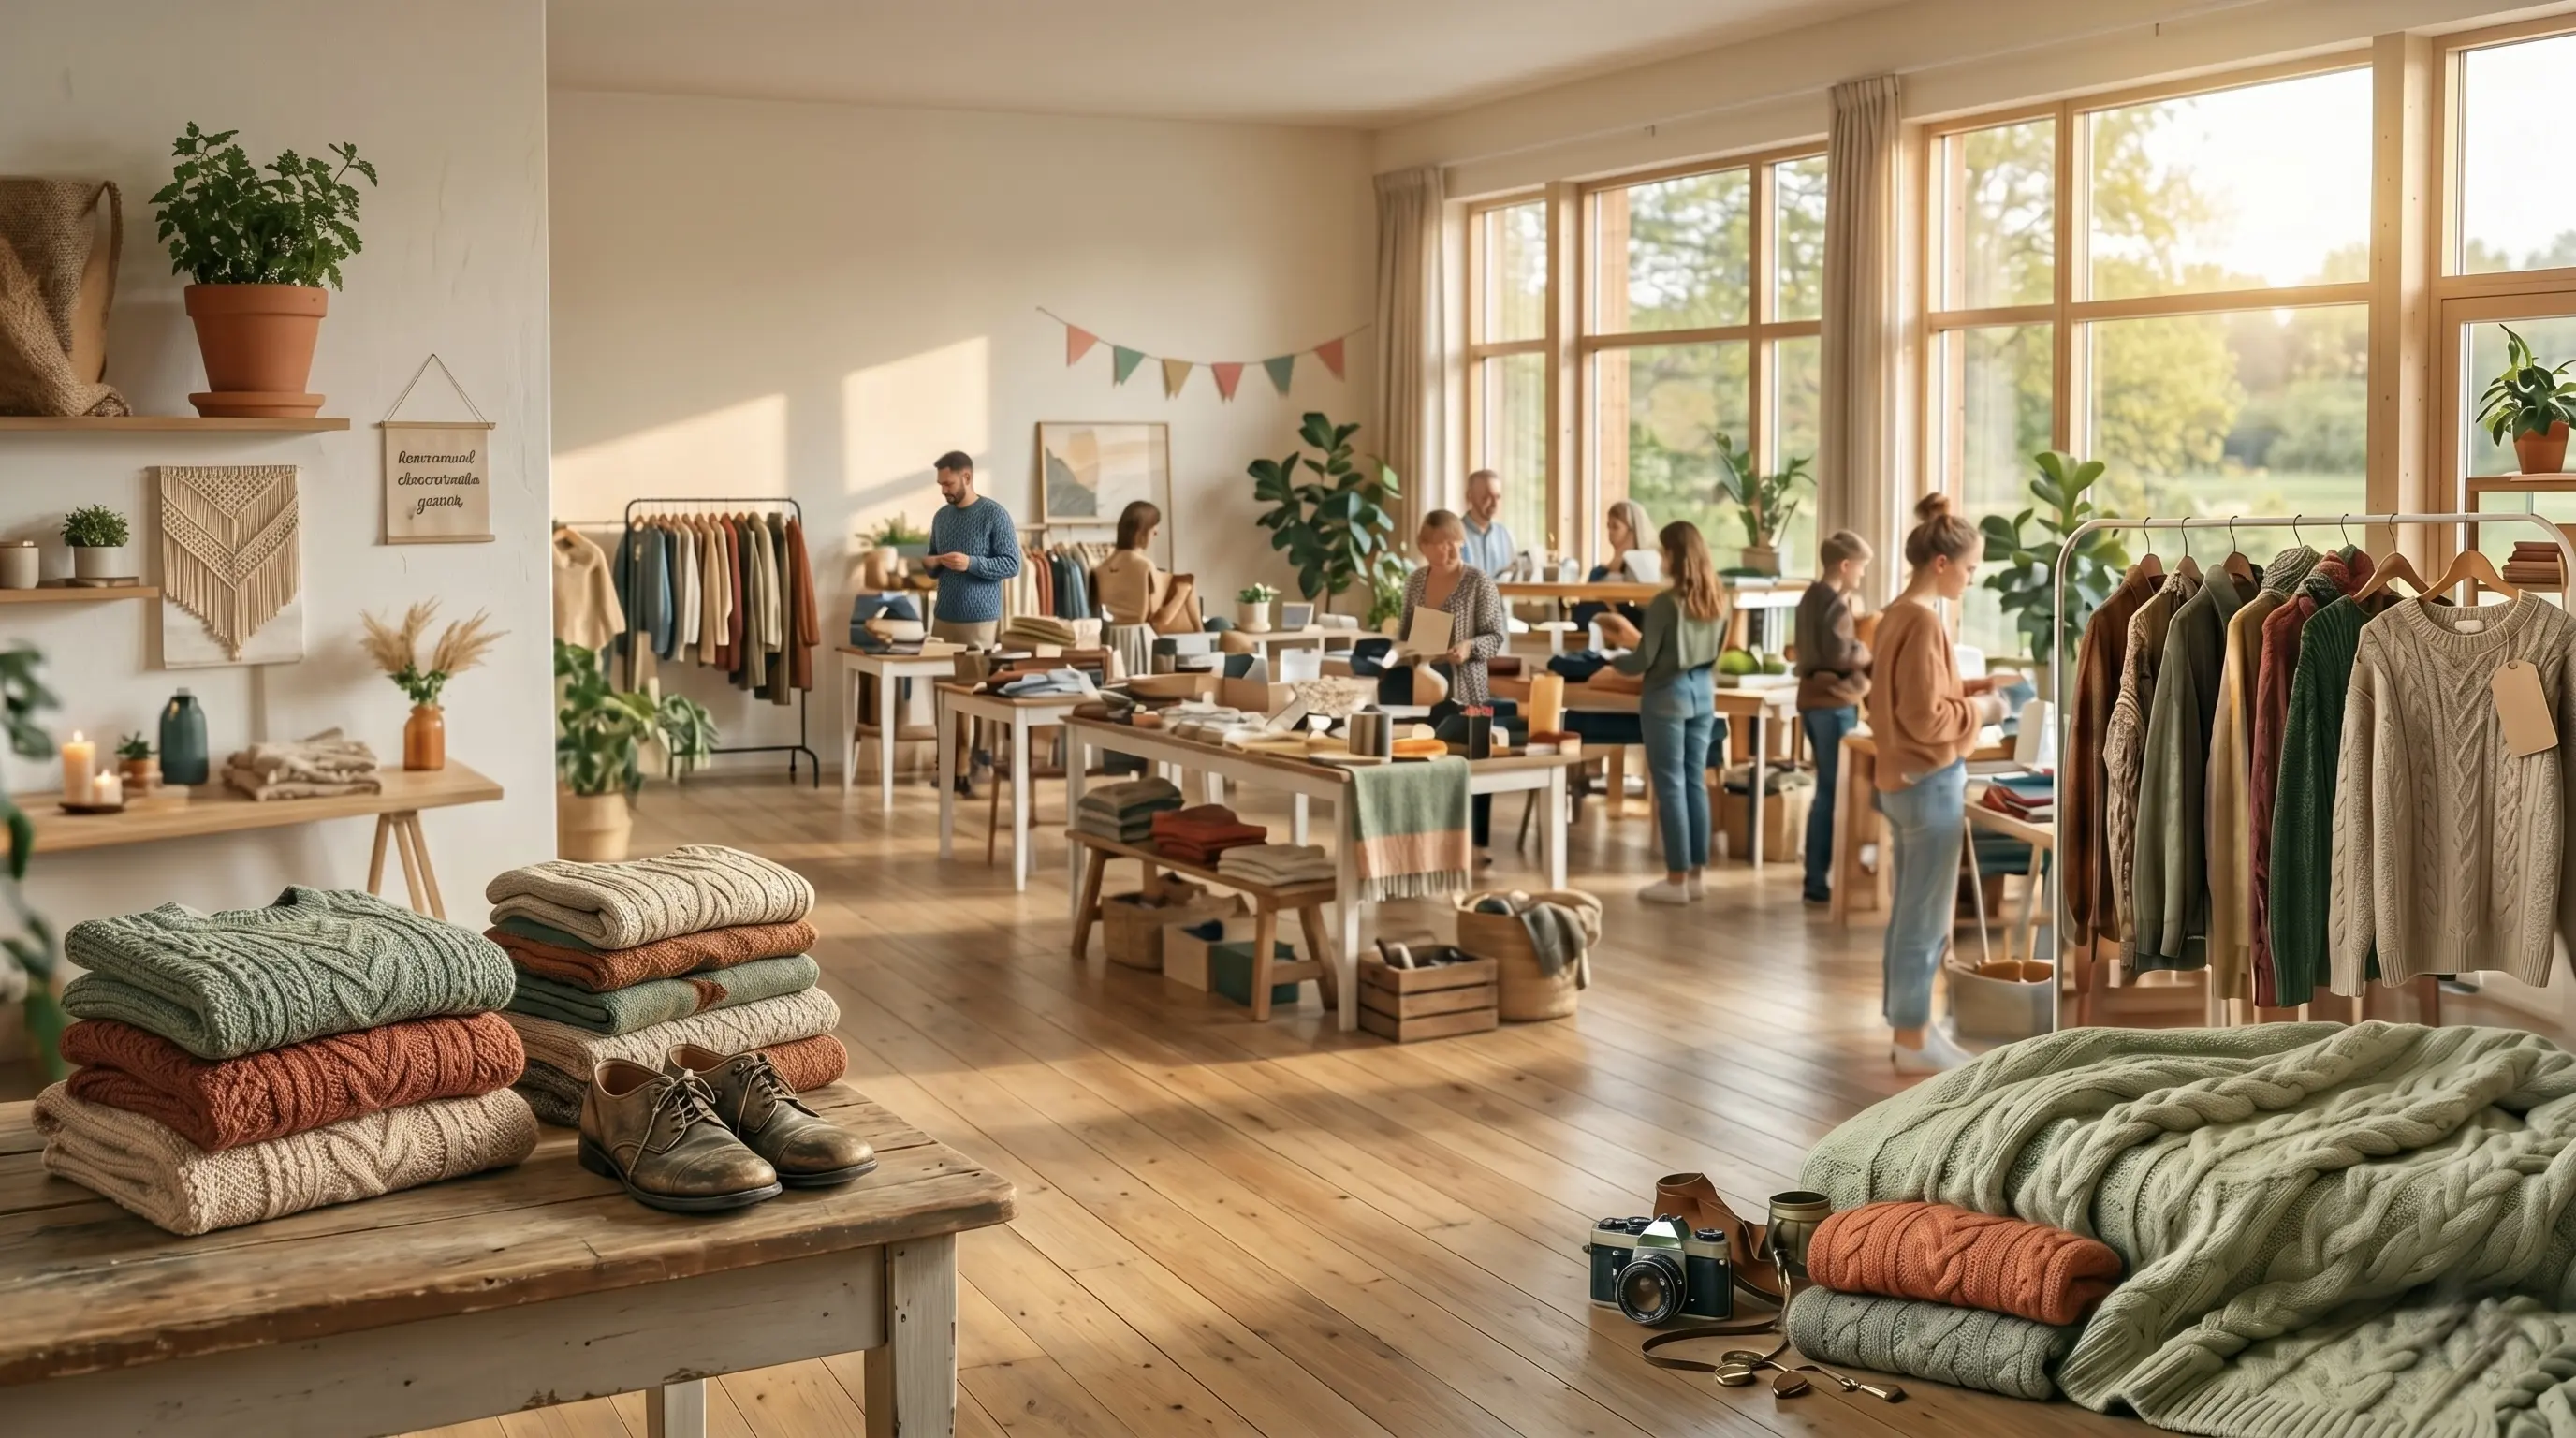
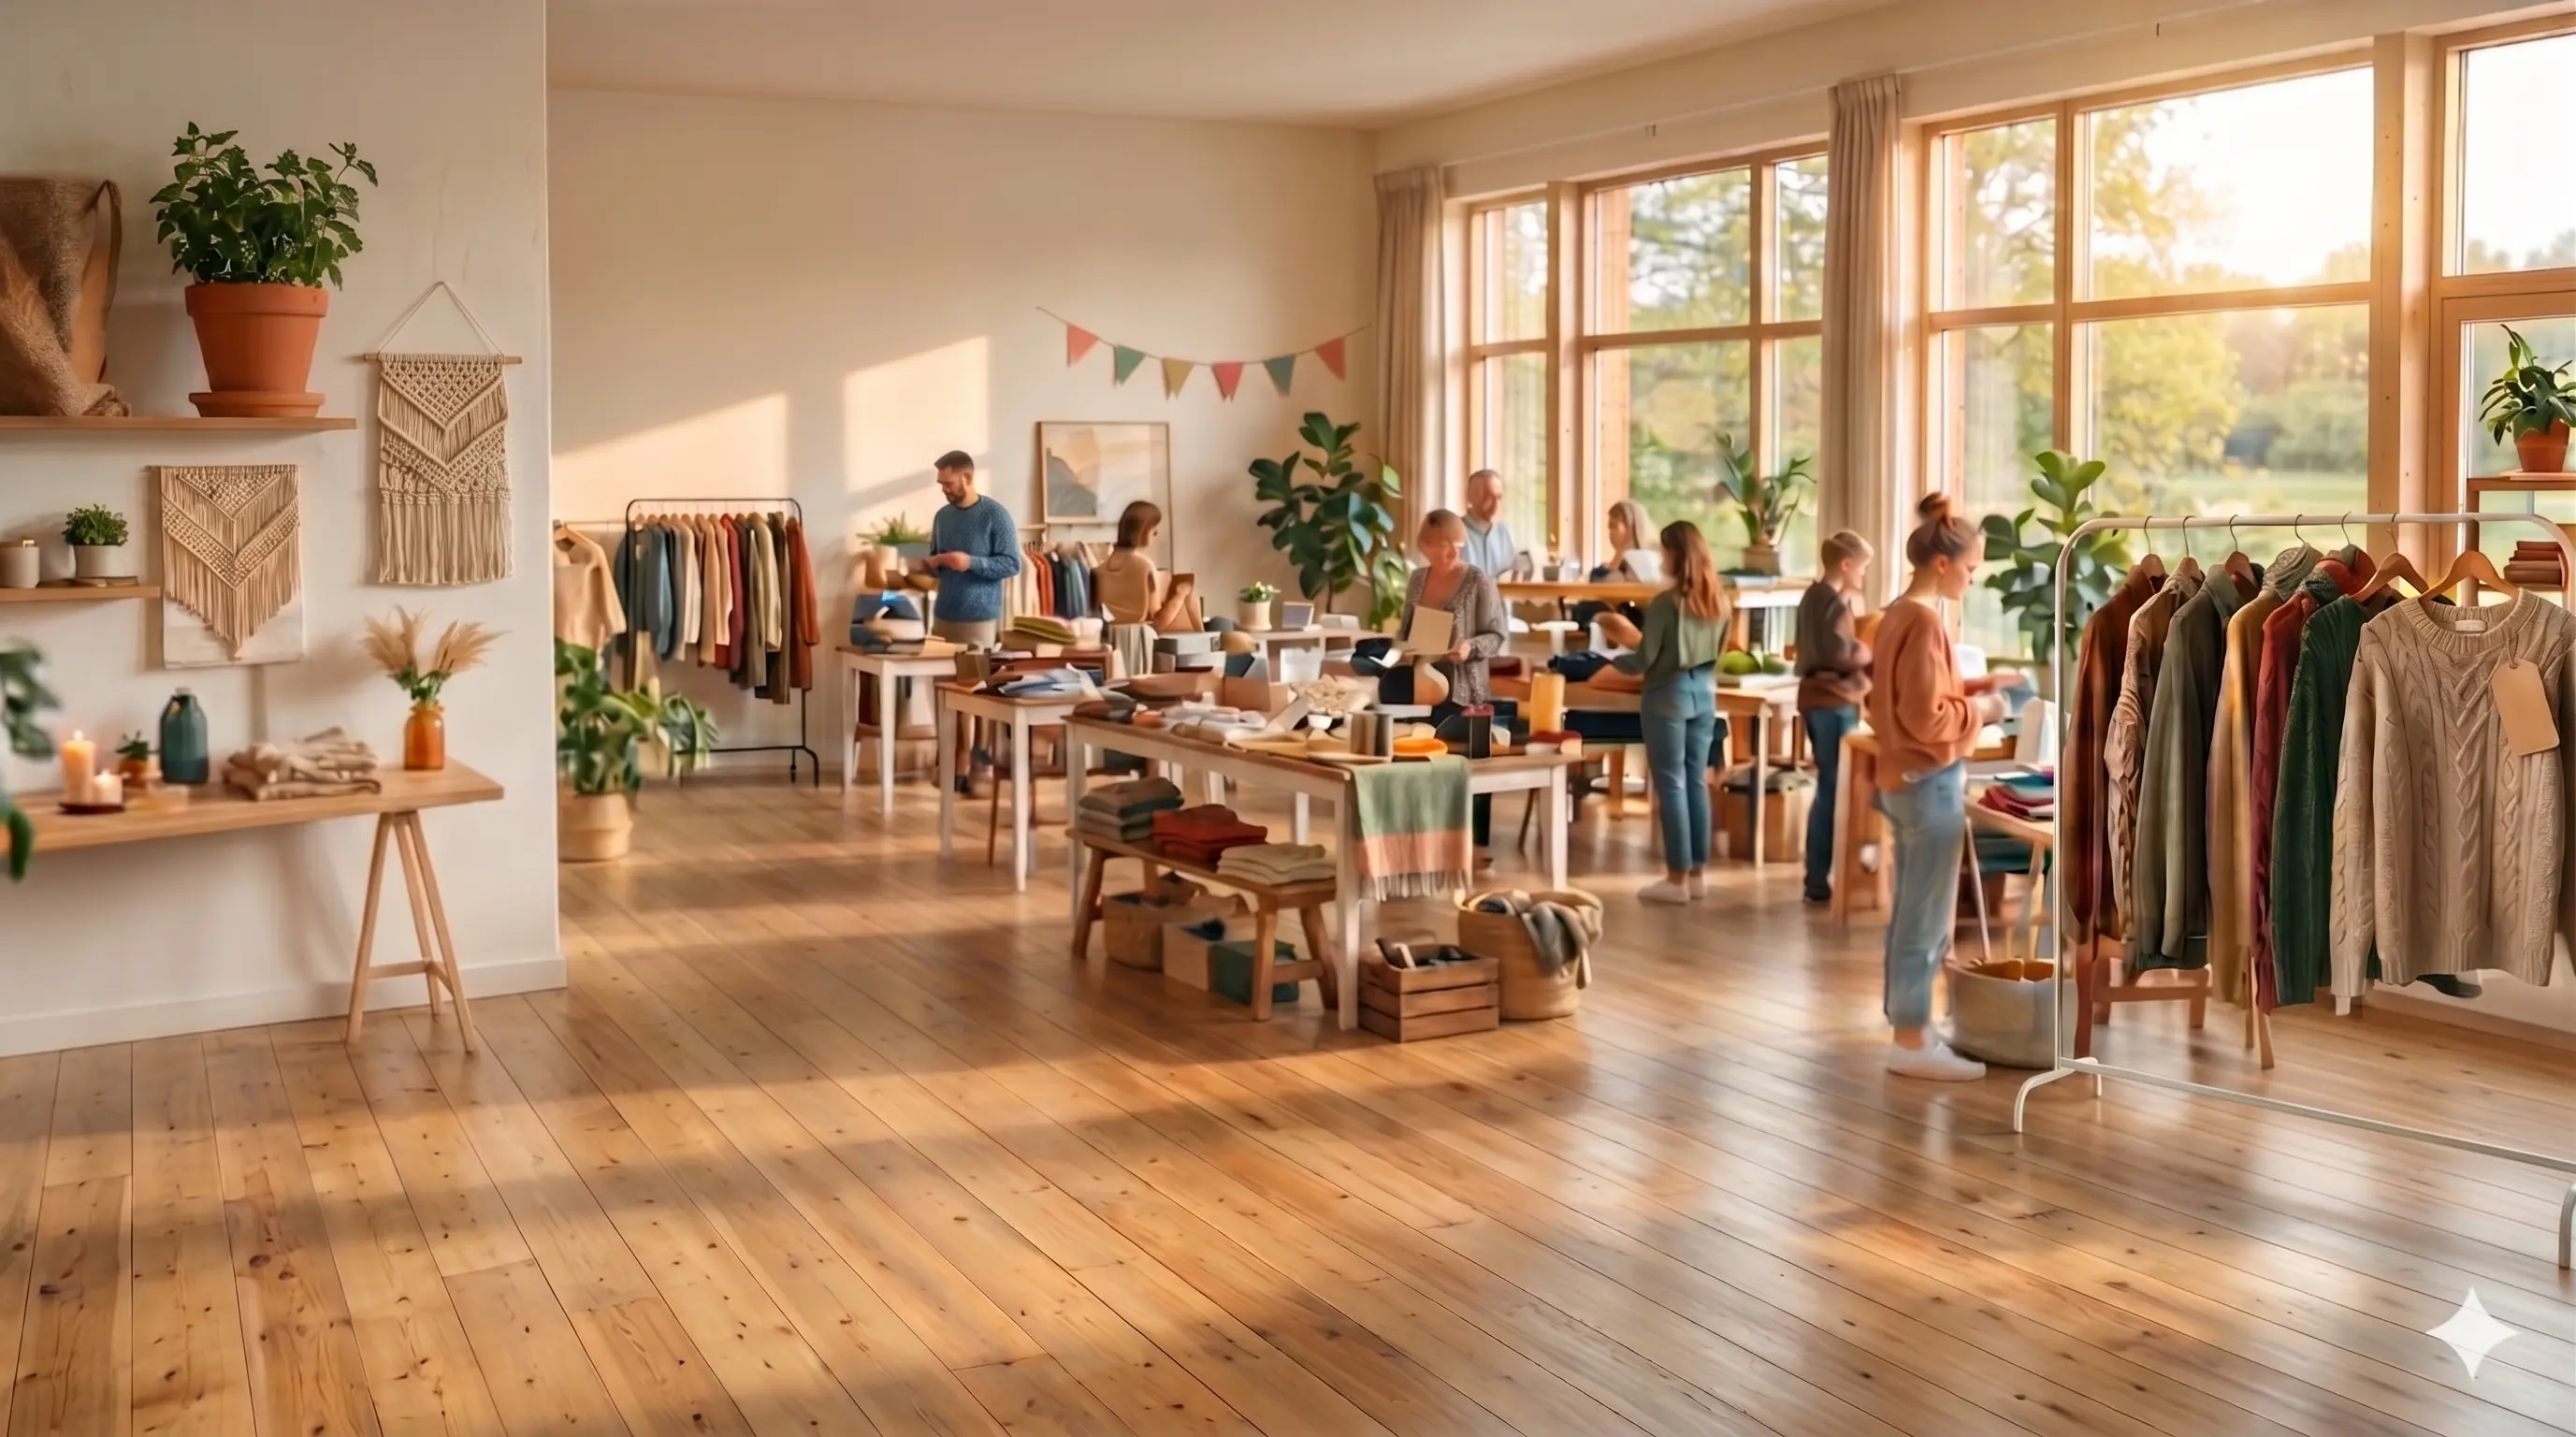
fix: checkpoint of positioning images

diff --git a/apps/web/src/styles/landing.css b/apps/web/src/styles/landing.css
@@ -1,7 +1,7 @@
 .flea-landing {
-  max-width: 1080px;
-  margin: 0 auto;
-  padding: 2rem 1.25rem 1.5rem;
+  width: 100%;
+  margin: 0;
+  padding: 0;
   font-family: "Montserrat", "Inter", system-ui, sans-serif;
   color: #5B4636;
   position: relative;
@@ -44,10 +44,9 @@
 /* Scene framing: cream gradient fallback only visible if the hero raster
    fails to load. The hero image renders at 100% opacity on top of this. */
 .flea-landing__scene {
-  border-radius: 18px;
+  border-radius: 0;
   background: linear-gradient(180deg, #F0E3C9 0%, #FDFBF7 70%);
-  box-shadow: 0 12px 34px rgba(91, 70, 54, 0.14);
-  min-height: clamp(480px, 62vh, 720px);
+  min-height: 100vh;
 }
 
 .flea-landing__overlay {
@@ -57,6 +56,12 @@
   padding: 2.25rem 1.75rem 1.75rem;
   max-width: 960px;
   margin: 0 auto;
+  min-height: 100vh;
+  box-sizing: border-box;
+}
+
+.flea-landing__overlay .flea-corkboard {
+  margin-top: auto;
 }
 
 /* Frosted card keeps the eyebrow/title/body legible against the photorealistic
@@ -107,7 +112,7 @@
 .flea-corkboard {
   position: relative;
   width: 100%;
-  max-width: 720px;
+  max-width: 400px;
   margin: 0 auto;
   aspect-ratio: 2816 / 1536;
   background-image: url("/landing/landing-corkboard.webp");
@@ -134,7 +139,7 @@
   top: 18%;
   width: 18%;
   height: 38%;
-  transform: rotate(-9deg);
+  transform: translateX(100px) rotate(-9deg);
 }
 
 .flea-note--place {
@@ -211,7 +216,7 @@
 
 @media (max-width: 760px) {
   .flea-landing__scene {
-    min-height: clamp(420px, 72vh, 620px);
+    min-height: 100vh;
   }
 
   .flea-landing__overlay {

diff --git a/apps/web/src/components/landing/sceneConfig.ts b/apps/web/src/components/landing/sceneConfig.ts
@@ -31,7 +31,13 @@ export const landingSceneAssets: LandingSceneAssets = {
   foreground: {
     src: "/landing/landing-props-foreground.webp",
     alt: "",
-    objectFit: "contain",
-    objectPosition: "center bottom",
+    style: {
+      position: "absolute",
+      bottom: 0,
+      left: 0, 
+      width: "100%",
+      height: "auto",
+      transform: "translateY(15%)",
+    },
   },
 };